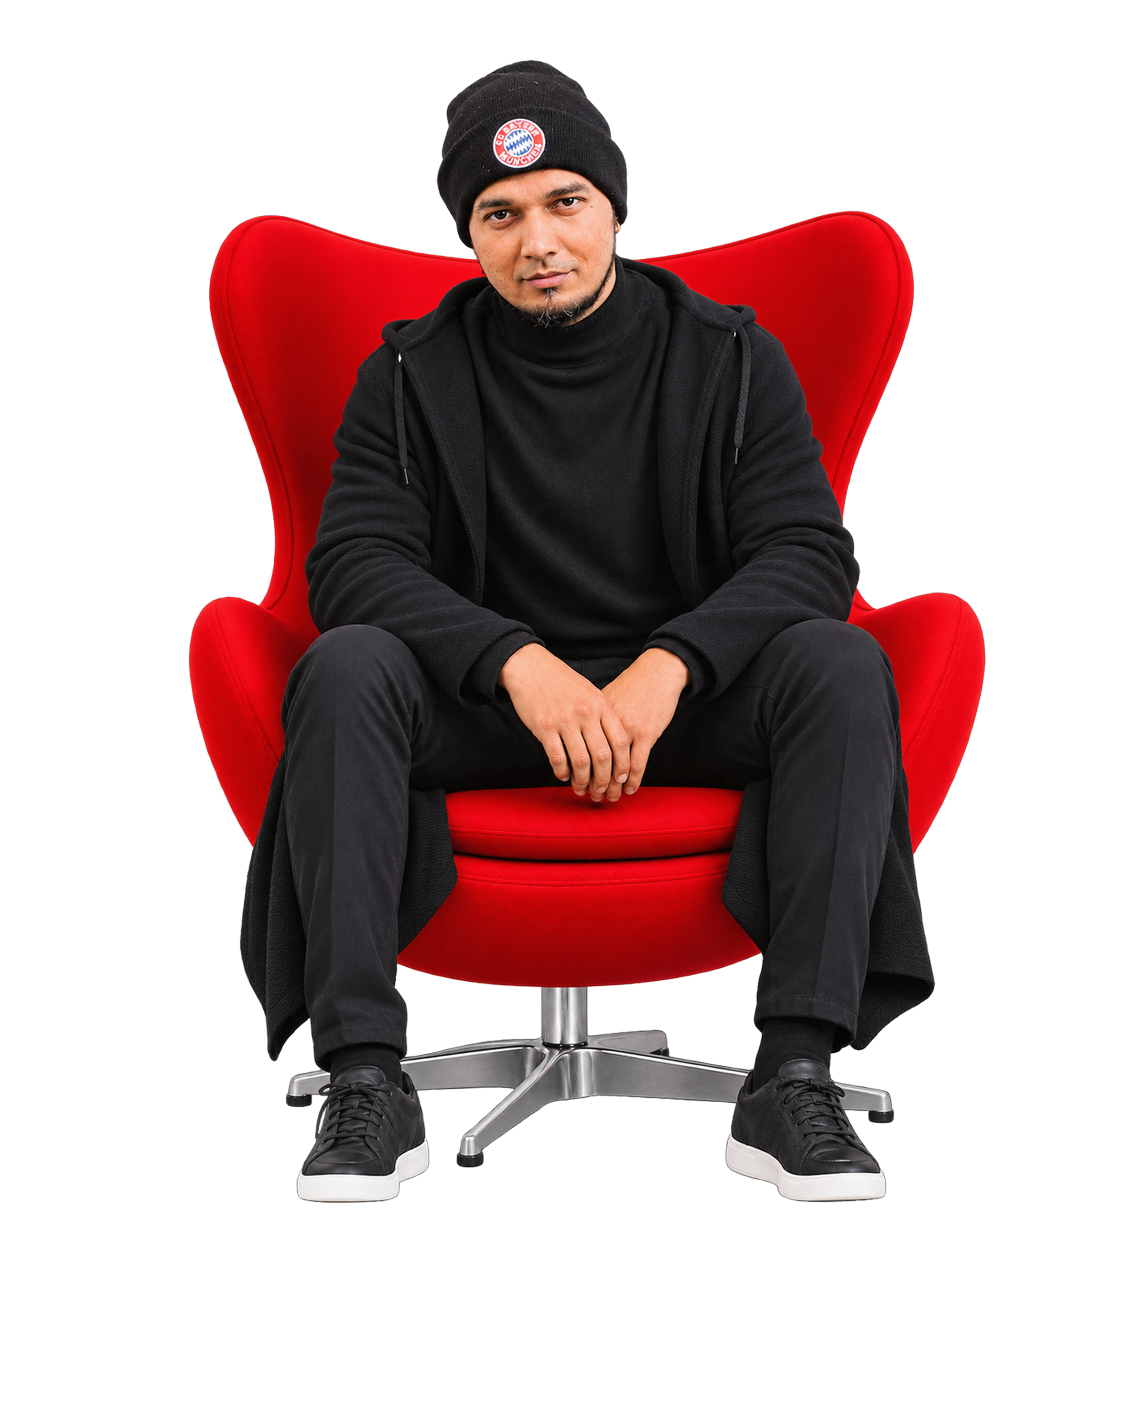
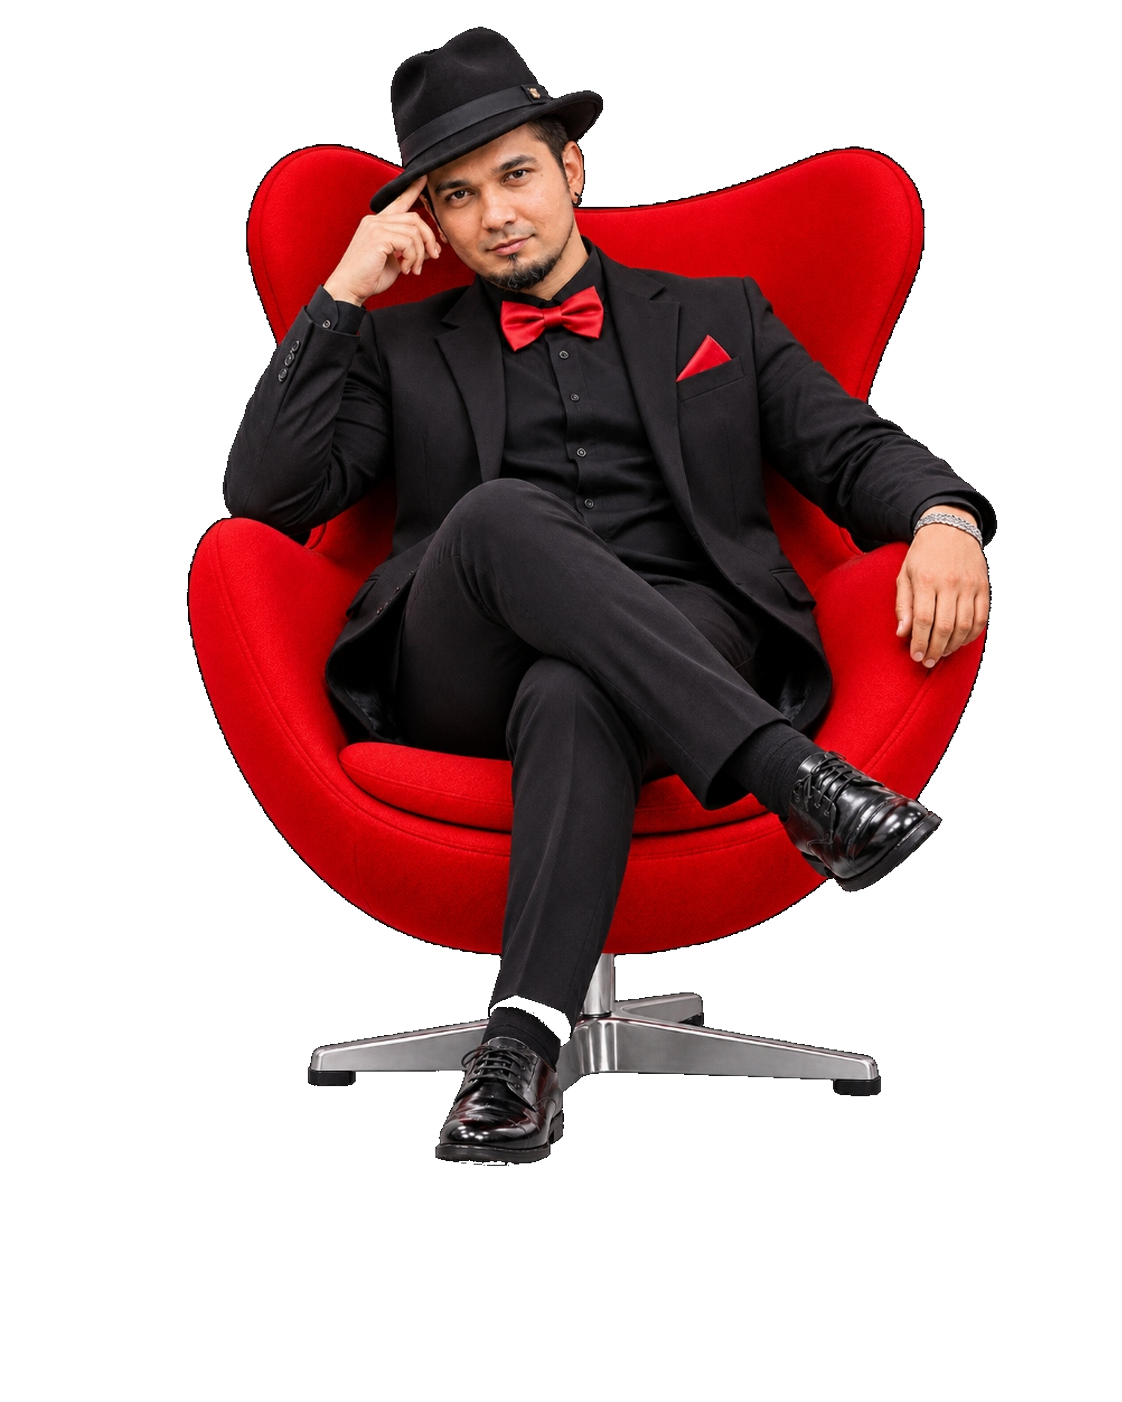
dileepa's image changed

diff --git a/components/mentors/FeaturedMentor.tsx b/components/mentors/FeaturedMentor.tsx
@@ -62,7 +62,7 @@ const MENTORS: Mentor[] = [
     anchor: "next-mentor",
     name: "meet Dileepa Liyanage",
     role: "Vocal & keyboard instructor",
-    image: "/images/Mentors/Dileepa.png",
+    image: "/images/Mentors/dileepa-vocal.png",
     imageAlt: "Meladine Artist Dileepa Liyanage",
     sketch: "/images/Mentors/Keyboard.png",
     sketchAspect: "aspect-[1122/1402]",
@@ -402,7 +402,7 @@ function DesktopShowcase({
       <div id="next-mentor" data-mentor="mentor2" className="absolute right-0 top-[680px] 2xl:top-[760px] z-20 flex flex-col items-end">
         <div className="relative w-[620px] 2xl:w-[700px] aspect-[1122/1402] -mr-32 2xl:-mr-40 drop-shadow-2xl">
           <Image
-            src="/images/Mentors/Dileepa.png"
+            src="/images/Mentors/dileepa-vocal.png"
             alt="Meladine Artist Dileepa Liyanage"
             fill
             sizes="700px"
